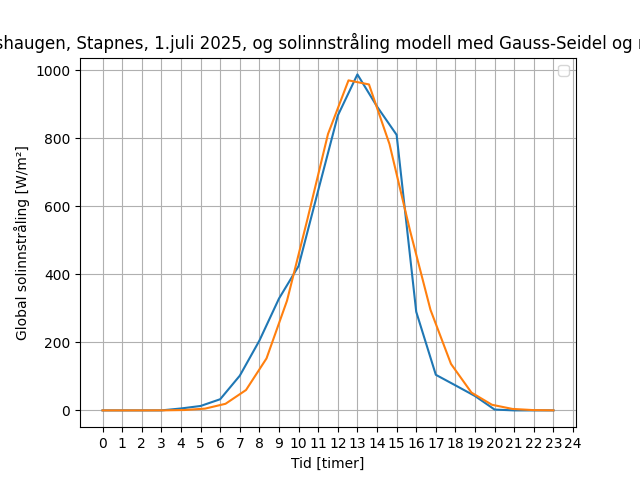
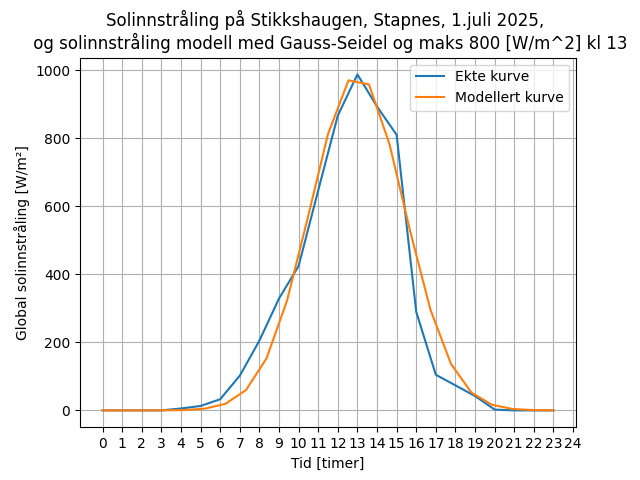
Ferdig igjen

Changed region(s): [[0.0, 0.0, 1.0, 0.2188]]

diff --git a/oving6.py b/oving6.py
@@ -57,12 +57,12 @@ plt.show()
 
 #Oppgave 6, plott de i samme figur
 
-plt.plot(df["time"], df["G(i)"])
-plt.plot(tidsakse,G(tidsakse, A, my, sigma))
+plt.plot(df["time"], df["G(i)"], label = "Ekte kurve")
+plt.plot(tidsakse,G(tidsakse, A, my, sigma), label = "Modellert kurve")
 plt.xticks(np.arange(0,25,1))
 plt.xlabel("Tid [timer]")
 plt.ylabel("Global solinnstråling [W/m²]")
-plt.title("Solinnstråling på Stikkshaugen, Stapnes, 1.juli 2025, og solinnstråling modell med Gauss-Seidel og maks 800 [W/m^2] kl 13")
+plt.title("Solinnstråling på Stikkshaugen, Stapnes, 1.juli 2025, \n og solinnstråling modell med Gauss-Seidel og maks 800 [W/m^2] kl 13")
 plt.grid()
 plt.legend()
 plt.savefig("Ovinger/Oving6/PlottSolinstralingBegge.png")
@@ -72,12 +72,12 @@ plt.show()
 A= 987.32
 sigma = 2.4
 
-plt.plot(df["time"], df["G(i)"])
-plt.plot(tidsakse,G(tidsakse, A, my, sigma))
+plt.plot(df["time"], df["G(i)"], label = "Ekte kurve")
+plt.plot(tidsakse,G(tidsakse, A, my, sigma), label = "Modellert kurve")
 plt.xticks(np.arange(0,25,1))
 plt.xlabel("Tid [timer]")
 plt.ylabel("Global solinnstråling [W/m²]")
-plt.title("Solinnstråling på Stikkshaugen, Stapnes, 1.juli 2025, og solinnstråling modell med Gauss-Seidel og maks 800 [W/m^2] kl 13")
+plt.title("Solinnstråling på Stikkshaugen, Stapnes, 1.juli 2025, \n og solinnstråling modell med Gauss-Seidel og maks 800 [W/m^2] kl 13")
 plt.grid()
 plt.legend()
 plt.savefig("Ovinger/Oving6/PlottSolinstralingBegge2.png")
